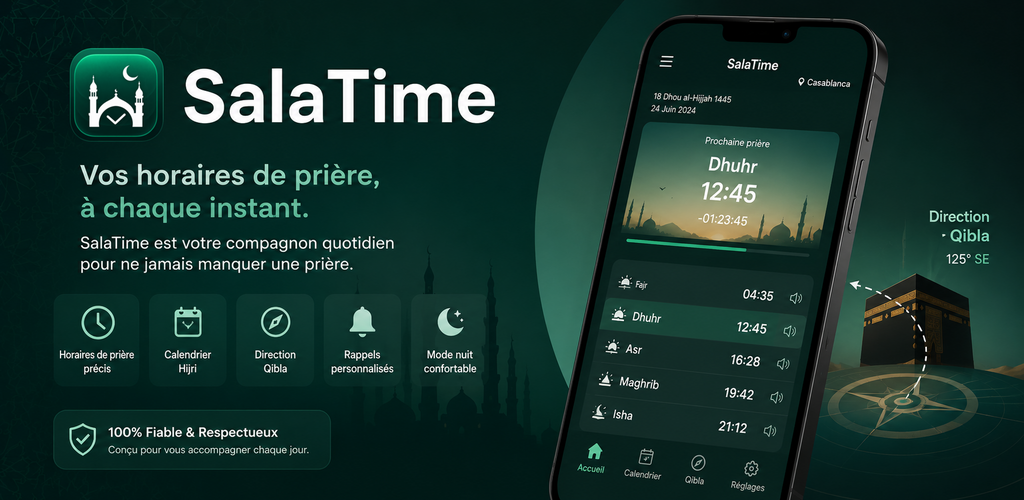
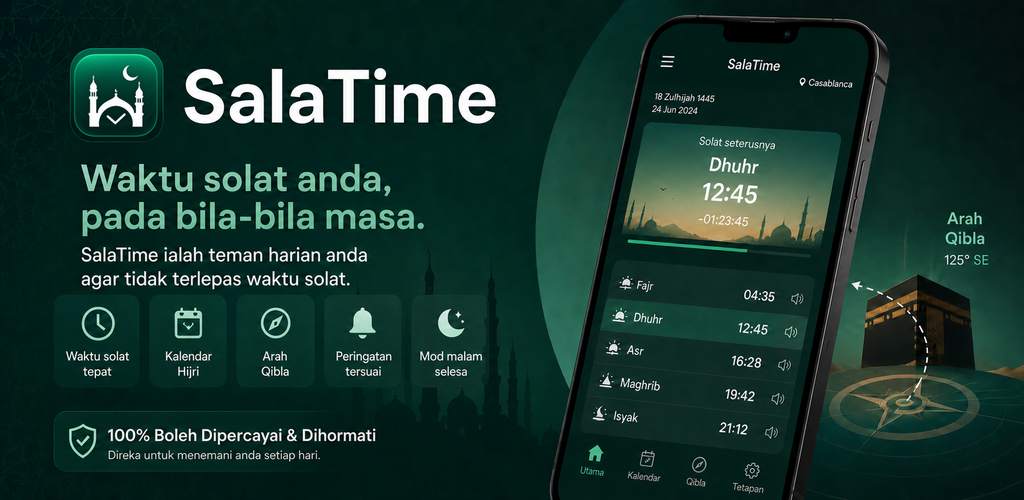
Localize Play Store feature graphics

diff --git a/play-store/replace_localized_images.py b/play-store/replace_localized_images.py
@@ -86,6 +86,7 @@ def main() -> int:
     parser.add_argument("--package", default="net.salatime.app")
     parser.add_argument("--features", required=True, type=Path)
     parser.add_argument("--screenshots-root", required=True, type=Path)
+    parser.add_argument("--skip-screenshots", action="store_true")
     args = parser.parse_args()
 
     for language in ALL_LANGUAGES:
@@ -93,11 +94,12 @@ def main() -> int:
         if not feature.is_file():
             raise RuntimeError(f"Missing feature graphic: {feature}")
     screenshot_sets: dict[str, list[Path]] = {}
-    for language, folder in SCREENSHOT_FOLDERS.items():
-        files = sorted((args.screenshots_root / folder).glob("*.png"))
-        if len(files) != 7:
-            raise RuntimeError(f"Expected 7 screenshots for {language}, found {len(files)}")
-        screenshot_sets[language] = files
+    if not args.skip_screenshots:
+        for language, folder in SCREENSHOT_FOLDERS.items():
+            files = sorted((args.screenshots_root / folder).glob("*.png"))
+            if len(files) != 7:
+                raise RuntimeError(f"Expected 7 screenshots for {language}, found {len(files)}")
+            screenshot_sets[language] = files
 
     session = requests.Session()
     session.headers.update({"Authorization": f"Bearer {access_token(args.credentials)}"})
